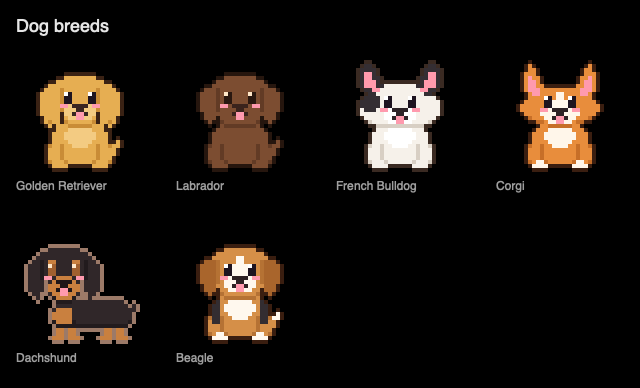
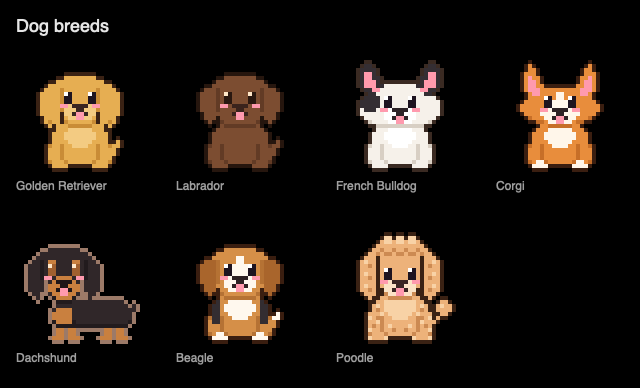
feat(pets): Added the Poodle breed: an apricot curly-coated dog with a scalloped round topknot, long curly ears, curl texture dots, pom paw bracelets, and a pom tail, with its own sitting, walking and stretching art, tests, docs, and contact sheets.

Changed region(s): [[0.5312, 0.5876, 0.7188, 0.9588]]

diff --git a/Sources/TabbiKitCore/Pets/PetBreed.swift b/Sources/TabbiKitCore/Pets/PetBreed.swift
@@ -30,11 +30,13 @@ public enum PetBodyShape: String, CaseIterable, Codable, Sendable {
     case pointyEaredDog
     /// Long snout and a long low body (Dachshund).
     case longDog
+    /// Curly coat, a round topknot, and long pom-tipped ears (Poodle).
+    case poodleDog
 
     public var species: PetSpecies {
         switch self {
         case .cat, .roundCat, .sphynxCat: .cat
-        case .floppyDog, .fluffyDog, .batEaredDog, .pointyEaredDog, .longDog: .dog
+        case .floppyDog, .fluffyDog, .batEaredDog, .pointyEaredDog, .longDog, .poodleDog: .dog
         }
     }
 }
@@ -57,6 +59,7 @@ public enum PetBreed: String, CaseIterable, Codable, Sendable {
     case corgi
     case dachshund
     case beagle
+    case poodle
 
     public var species: PetSpecies { bodyShape.species }
 
@@ -70,6 +73,7 @@ public enum PetBreed: String, CaseIterable, Codable, Sendable {
         case .frenchBulldog: .batEaredDog
         case .corgi: .pointyEaredDog
         case .dachshund: .longDog
+        case .poodle: .poodleDog
         }
     }
 
@@ -99,6 +103,7 @@ public enum PetBreed: String, CaseIterable, Codable, Sendable {
         case .corgi: "Corgi"
         case .dachshund: "Dachshund"
         case .beagle: "Beagle"
+        case .poodle: "Poodle"
         }
     }
 
@@ -164,6 +169,11 @@ public enum PetBreed: String, CaseIterable, Codable, Sendable {
             return PetPalette([.furBase: c("#D58F48"), .furShade: c("#B57234"), .furAccent: c("#A9652C"),
                                .furSpot: c("#332D31"), .belly: c("#FFF8EE"), .nose: c("#2E2224"),
                                .outline: c("#3A1E10")])
+        case .poodle:
+            // Apricot curls with lighter tips, a cream muzzle, and a dark
+            // nose and eyes.
+            return PetPalette([.furBase: c("#EDB27A"), .furShade: c("#CC8A52"), .furAccent: c("#F8D2A6"),
+                               .belly: c("#FBE3C6"), .nose: c("#3A2622"), .outline: c("#3A2214")])
         }
     }
 
@@ -200,6 +210,8 @@ public enum PetBreed: String, CaseIterable, Codable, Sendable {
             return PetPattern([.patchA: .belly, .paws: .belly])
         case .beagle:
             return PetPattern([.ears: .furAccent, .mask: .belly, .patchA: .furSpot, .paws: .belly, .tailTip: .belly])
+        case .poodle:
+            return PetPattern([.chest: .furAccent, .muzzle: .belly])
         }
     }
 }

diff --git a/Tests/TabbiKitCoreTests/PetsSpriteTests.swift b/Tests/TabbiKitCoreTests/PetsSpriteTests.swift
@@ -183,13 +183,13 @@ final class PetBreedTests: XCTestCase {
     func testCatalogHasEveryCatAndDogBreed() {
         XCTAssertEqual(PetBreed.breeds(of: .cat).count, 9)
         XCTAssertEqual(PetBreed.breeds(of: .dog), [
-            .goldenRetriever, .labrador, .frenchBulldog, .corgi, .dachshund, .beagle,
+            .goldenRetriever, .labrador, .frenchBulldog, .corgi, .dachshund, .beagle, .poodle,
         ])
     }
 
     func testDogsUseDistinctSilhouettesWhereColorAloneIsNotEnough() {
         // Each of these breeds must be recognizable by shape, not just color.
-        let shapes: [PetBreed] = [.goldenRetriever, .labrador, .frenchBulldog, .corgi, .dachshund]
+        let shapes: [PetBreed] = [.goldenRetriever, .labrador, .frenchBulldog, .corgi, .dachshund, .poodle]
         let silhouettes = shapes.map { breed in PetComposer.sitting(breed).pixels.map { $0 != nil } }
         XCTAssertEqual(Set(silhouettes).count, shapes.count)
     }
@@ -208,6 +208,21 @@ final class PetBreedTests: XCTestCase {
         XCTAssertFalse(roles.contains(.furSpot))
         XCTAssertTrue(roles.contains(.blush))
         XCTAssertTrue(roles.contains(.furShade), "wrinkles are hinted with shading")
+    }
+
+    func testPoodleHasACurlyCoatATopknotAndAPomTail() throws {
+        let poodle = PetComposer.sitting(.poodle)
+        // Curls are light and dark dots over the base coat.
+        let roles = Set(poodle.pixels.compactMap { $0 })
+        XCTAssertTrue(roles.isSuperset(of: [.furBase, .furShade, .furAccent]))
+        // The topknot makes it the tallest of the floppy-eared dogs.
+        let top = try XCTUnwrap(poodle.opaqueBounds).minY
+        for other in [PetBreed.goldenRetriever, .labrador, .beagle] {
+            XCTAssertLessThan(top, try XCTUnwrap(PetComposer.sitting(other).opaqueBounds).minY, "\(other)")
+        }
+        // The pom tail reaches past the golden's plain tail.
+        let reach = try XCTUnwrap(poodle.opaqueBounds).maxX
+        XCTAssertGreaterThan(reach, try XCTUnwrap(PetComposer.sitting(.goldenRetriever).opaqueBounds).maxX)
     }
 
     func testDarkDogsStillGetTheWarmRim() {

diff --git a/Sources/TabbiKitCore/Pets/PetComposer.swift b/Sources/TabbiKitCore/Pets/PetComposer.swift
@@ -269,14 +269,16 @@ public enum PetComposer {
                 (body, bodyX, bodyY, tail) = (DogArt.bodyLong, 6, 21, nil)
                 (head, headX, headY, face) = (DogArt.headLong, 2, 8, DogArt.faceLongSnout)
                 (faceRow, eyeRow, skullTop) = (4, 4, 1)
-            case .floppyDog, .fluffyDog, .batEaredDog, .pointyEaredDog:
+            case .floppyDog, .fluffyDog, .batEaredDog, .pointyEaredDog, .poodleDog:
                 family = .dog
-                (body, bodyX, bodyY) = (DogArt.bodySit, 6, 20)
-                tail = (DogArt.tailUp, 23, 24)
+                let poodle = shape == .poodleDog
+                (body, bodyX, bodyY) = (poodle ? DogArt.bodyPoodle : DogArt.bodySit, 6, 20)
+                tail = poodle ? (DogArt.tailPom, 24, 21) : (DogArt.tailUp, 23, 24)
                 let (grid, eyes, skull): (SpriteGrid, Int, Int) = switch shape {
                 case .fluffyDog: (DogArt.headFluffy, 4, 1)
                 case .batEaredDog: (DogArt.headBatEared, 8, 5)
                 case .pointyEaredDog: (DogArt.headPointyEared, 8, 5)
+                case .poodleDog: (DogArt.headPoodle, 8, 4)
                 default: (DogArt.headFloppy, 4, 1)
                 }
                 // Dog heads differ in height; all rest their chin on the neck.
@@ -324,7 +326,9 @@ public enum PetComposer {
                 (torsoY, tailX) = (20, 26)
                 (legHeight, backHip, chinRow) = (4, 22, 24)
             case .dog:
-                (torso, torsoY, tails, tailX) = (WalkArt.dogTorso, 20, WalkArt.dogTail, 26)
+                (torso, tails) = shape == .poodleDog
+                    ? (WalkArt.poodleTorso, WalkArt.poodleTail) : (WalkArt.dogTorso, WalkArt.dogTail)
+                (torsoY, tailX) = (20, 26)
                 (legHeight, backHip, chinRow) = (4, 22, 24)
             case .longDog:
                 (torso, torsoY, tails, tailX) = (WalkArt.longTorso, 22, WalkArt.longTail, 27)

diff --git a/Sources/TabbiKitCore/Pets/Art/DogArt.swift b/Sources/TabbiKitCore/Pets/Art/DogArt.swift
@@ -163,4 +163,53 @@ enum DogArt {
         ....pp.pp.......pp.pp...
         ...ppp.ppp.....ppp.ppp..
         """)
+
+    /// Poodle: a round curly topknot over a teddy face, with long curly ears
+    /// that end in round poms. Shade dots (`S`) and highlights (`A`) are the
+    /// curls; the smooth muzzle stays plain so the face reads at notch size.
+    static let headPoodle = SpriteGrid(art: """
+        ......AA.AA.AA......
+        .....BAABAABAAB.....
+        ....BBBBBBBBBBBB....
+        ...BBSBBSBBSBBSBB...
+        ..eeSBSSBSSBSSBSee..
+        .eee.BBBBBBBBBB.eee.
+        eAee.BBBBBBBBBB.eeAe
+        eeSe.BBBBBBBBBB.eSee
+        eeee.BBBBBBBBBB.eeee
+        eAee.BBBBBBBBBB.eeAe
+        eeSe.BBBBBBBBBB.eSee
+        eeee.BBmmmmmmBB.eeee
+        eAee.BmmmmmmmmB.eeAe
+        eeSe..mmmmmmmm..eSee
+        .eee..SmmmmmmS..eee.
+        ..e....SSSSSS....e..
+        """)
+
+    /// Poodle sitting: a curly coat with a fluffy chest and pom bracelets
+    /// at the paws.
+    static let bodyPoodle = SpriteGrid(art: """
+        .....BBBBBBBBBB.....
+        ....BBAccccccABB....
+        ...BABccccccccBAB...
+        ...BSBccccccccBSB...
+        ..BBBABccccccBABBB..
+        ..ABSSBBccccBBSSBA..
+        ..BBASBBBBBBBBSABB..
+        ..BSBSBABBBBABSBSB..
+        ..ABBSBBSBBSBBSBBA..
+        ..SBppSBBBBBBSppBS..
+        ..ApppA......ApppA..
+        """)
+
+    /// The poodle's tail: a short stem curving up from the rump to a round
+    /// pom that stands clear of the haunch.
+    static let tailPom = SpriteGrid(art: """
+        ..tt.
+        .tAtt
+        .tttt
+        ..tt.
+        .B...
+        B....
+        """)
 }

diff --git a/Sources/TabbiKitCore/Pets/Art/WalkArt.swift b/Sources/TabbiKitCore/Pets/Art/WalkArt.swift
@@ -124,6 +124,37 @@ enum WalkArt {
             """),
     ]
 
+    /// Poodle torso: the dog torso covered in curls, with a fluffy chest.
+    static let poodleTorso = SpriteGrid(art: """
+        ...BBSBBBSBBBBSBBBSB..
+        ..BSBBBABBBSBBBABBBSB.
+        .ABBBSBBBSBBBSBBBSBBBB
+        .cABBBBSBBBBBBSBBBBSBB
+        .ccBSBBBBBSBBBBBBSBBBB
+        .cccBBBSBBBBBSBBBBBBBS
+        ..ccSSSSSSSSSSSSSSSSS.
+        """)
+
+    /// The poodle's pom tail, held high and bobbing between steps.
+    static let poodleTail = [
+        SpriteGrid(art: """
+            .tt.
+            tAtt
+            tttt
+            .tt.
+            .B..
+            BB..
+            """),
+        SpriteGrid(art: """
+            ..tt
+            .tAt
+            .ttt
+            ..tt
+            .B..
+            BB..
+            """),
+    ]
+
     static let dogTail = [
         SpriteGrid(art: """
             ..t

diff --git a/Sources/TabbiKitCore/Party/PartyPetAppearance.swift b/Sources/TabbiKitCore/Party/PartyPetAppearance.swift
@@ -79,6 +79,7 @@ public enum PartyPetAppearance {
         case .corgi: "corgi"
         case .dachshund: "dachshund"
         case .beagle: "beagle"
+        case .poodle: "poodle"
         }
     }
 
@@ -99,7 +100,6 @@ public enum PartyPetAppearance {
         "german-shepherd": .corgi,
         "shiba-inu": .corgi,
         "husky": .corgi,
-        "poodle": .goldenRetriever,
         "pug": .frenchBulldog,
         "border-collie": .labrador,
         "samoyed": .goldenRetriever,

diff --git a/docs/study/pets.md b/docs/study/pets.md
@@ -3,7 +3,7 @@
 A study-buddy cat or dog lives in the notch.
 This document explains how pet sprites are drawn, composed, and rendered, and how to add a breed.
 
-Status: the sprite format, palettes, pattern zones, renderer, all nine cat breeds, all six dog breeds, every costume, the front-facing animations (idle, blink, sit, sleep, peek in and out, alert, celebrate), the walk cycle, the stretch, the animation state machine, and the app's `PetView` exist.
+Status: the sprite format, palettes, pattern zones, renderer, all nine cat breeds, all seven dog breeds, every costume, the front-facing animations (idle, blink, sit, sleep, peek in and out, alert, celebrate), the walk cycle, the stretch, the animation state machine, and the app's `PetView` exist.
 
 ![All cat breeds sitting, on black at 4x](images/cats-sitting.png)
 
@@ -335,6 +335,18 @@ The Sphynx is hairless, so its look comes from shape and shading instead of mark
 
 ![Every animation frame for the Sphynx](images/animations-sphynx.png)
 
+### The Poodle
+
+The Poodle is all curls, so its look comes from a bumpy silhouette and dotted texture:
+
+- Head (`DogArt.headPoodle`): a round topknot with a scalloped top and a shade line where it meets the forehead, a teddy face with a smooth cream muzzle, and long curly ears set apart from the face by an outline.
+- Body (`DogArt.bodyPoodle`, `WalkArt.poodleTorso`): curls drawn as `furShade` and `furAccent` dots over the coat, a fluffy light chest, and pom bracelets around the paws.
+- Tail (`DogArt.tailPom`, `WalkArt.poodleTail`): a short stem curving up to a round pom that stands clear of the haunch.
+- Coloring (`PetBreed.palette`): apricot by default. The curls are `furShade` and `furAccent`, so a fur tint recolors the whole coat and keeps the texture.
+- Hats sit on the shade line under the topknot (`skullTop` 4), so even the graduation cap stays inside the frame mid-hop.
+
+![Every animation frame for the Poodle](images/animations-poodle.png)
+
 ### Recoloring fur
 
 `furAccent` means different things per breed: darker stripes on a tabby, lighter feathering on a golden's chest.
@@ -375,6 +387,7 @@ Dogs need more, because their ears and snouts are what make them recognizable at
 | `batEaredDog` | French Bulldog | big rounded bat ears, broad face |
 | `pointyEaredDog` | Corgi | tall pointed ears, fox-like face |
 | `longDog` | Dachshund | long snout and a long low body behind the head |
+| `poodleDog` | Poodle | round curly topknot, long curly ears, dotted curl texture, pom tail |
 
 Dog heads have different heights, so the shared dog face is stamped on each head's eye row.
 The dog mouth is drawn in the nose color, not the outline, because on dark breeds the outline becomes a light rim that would look noisy on the muzzle.
